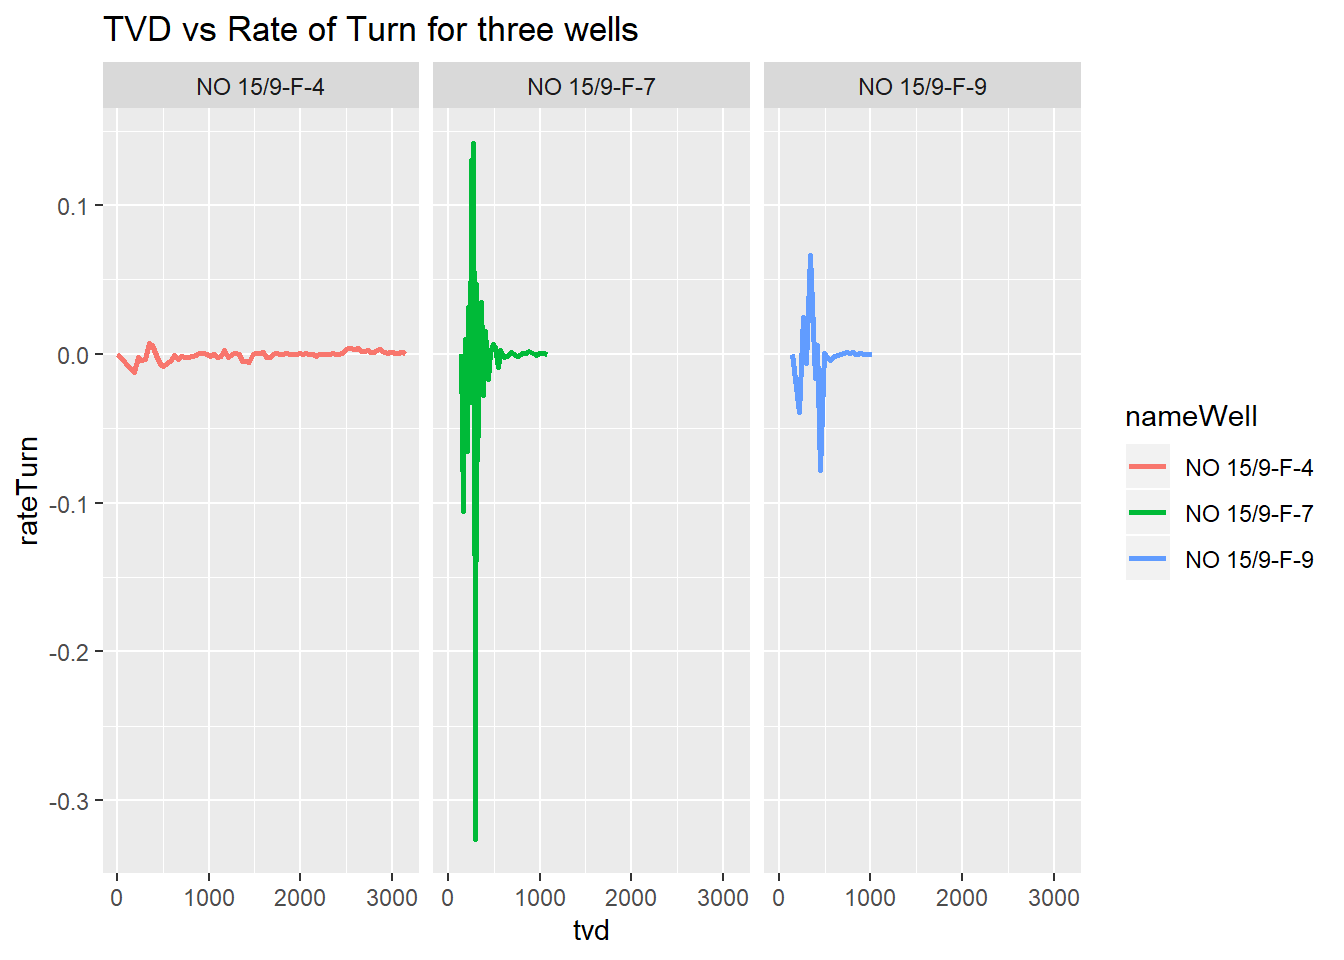
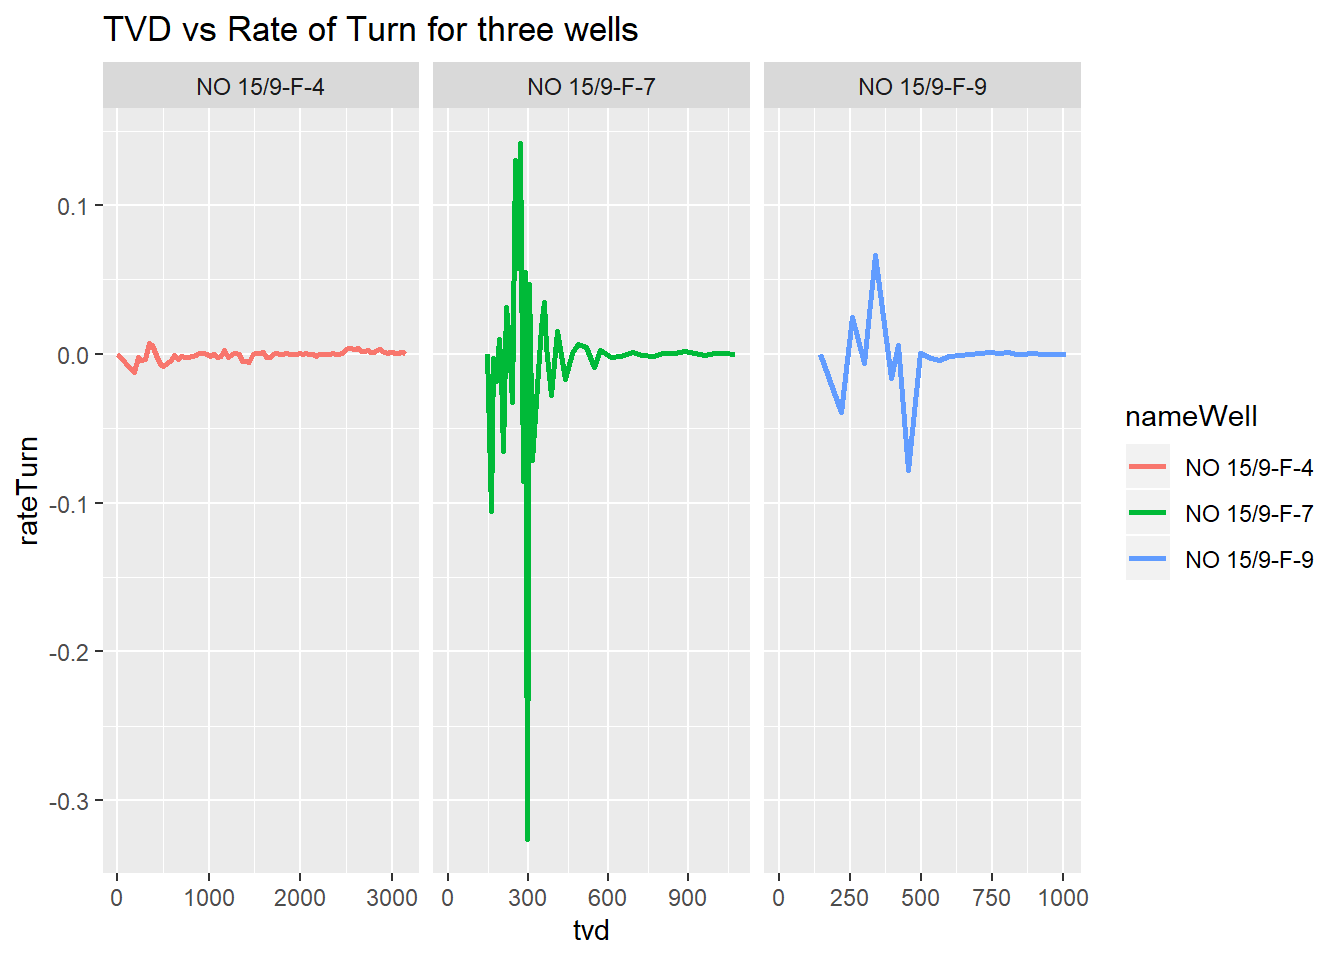
add more explanations to witsml conversion.

diff --git a/content/publications/2019-01-27-exploring-drilling-data-with-witsml-and-r.html b/content/publications/2019-01-27-exploring-drilling-data-with-witsml-and-r.html
@@ -547,8 +547,8 @@ unique(xml_name(xml_children(xml_find_all(dat, &quot;//trajectoryStation&quot;))
 <p>They are different because int he first case we are asking for the first node (<code>xml_find_first</code>) while in the second case we are asking for all the nodes (xml_find_all). This is normal, the reason of existence of hierarchical structures that doesn’t waste space in variables that are not currently used.</p>
 </blockquote>
 </div>
-<div id="attrubutes-of-trajectorystation" class="section level3">
-<h3>Attrubutes of <code>trajectoryStation</code></h3>
+<div id="attributes-of-trajectorystation" class="section level3">
+<h3>Attributes of <code>trajectoryStation</code></h3>
 <pre class="r"><code># get the attributes for trajectoryStation
 xml_attrs(x = trajectoryStation)
 #&gt;                 uid 
@@ -1326,7 +1326,7 @@ all_wells
 <div id="simplify-the-data-structure-by-nesting-the-two-wells" class="section level2">
 <h2>Simplify the data structure by nesting the two wells</h2>
 <p>With the two wells put together we should be almost ready. But we don’t want to show all the measurements; we want just to focus on the wells. So far, we have two wells with 67 rows but what about later when we have ten or a hundred. Then, it would consume lot of memory and screen to see through all those records.</p>
-<p>What we want is to show only the wells and start performing operations directly on them. We do this by using the function <code>nest()</code>.</p>
+<p>What we want is to show only the wells and start performing operations directly on them. We do this by using the <code>tidyr</code> function <code>nest()</code>.</p>
 <pre class="r"><code># nest the two well so they show as one row each
 wells_nested &lt;-
     all_wells %&gt;% 
@@ -1340,7 +1340,8 @@ wells_nested &lt;-
 </div>
 <div id="add-new-wells" class="section level2">
 <h2>Add new wells</h2>
-<p>We will add one more well: <em>Norway-Statoil-NO 15_$47$_9-F-4</em>. This well has 87 measurement points for its trajectory.</p>
+<p>We will add one more well: <em>Norway-Statoil-NO 15_$47$_9-F-4</em>. This well has 87 measurement points for its trajectory, which is the same as saying that the well has 87 <code>trajectoryStation</code> items.</p>
+<p>This time we use only one function <code>convert_witsml_to_df()</code>, one that resides in the script <code>witsml-trajectory.R</code>. This function performs all the data extraction and conversion that we saw at the beginning.</p>
 <pre class="r"><code># convert a WITSML trajectory to dataframe
 well_9f4  &lt;- traj_files[1] 
 well_9f4_df &lt;- convert_witsml_to_df(well_9f4)
@@ -1372,6 +1373,8 @@ well_9f4_df
 </div>
 <div id="nest-the-new-well" class="section level2">
 <h2>Nest the new well</h2>
+<p>So, we have 87 trajectory measurements for the well. Again, we don’t want to see all of them but just the well. So, we nest the structure. What we will see from now on is one row representing the well with its <code>uid</code>.</p>
+<p>Later, if you need to undo the nesting operation, you just use the function <code>unnest()</code>.</p>
 <pre class="r"><code># nesting the new well
 nested_9f4 &lt;-
     well_9f4_df %&gt;% 
@@ -1381,6 +1384,7 @@ nested_9f4 &lt;-
 #&gt;   uid     data              
 #&gt;   &lt;chr&gt;   &lt;list&gt;            
 #&gt; 1 5VIRG33 &lt;tibble [87 x 42]&gt;</code></pre>
+<p>The new well should be able now to join the other two wells nested structure. It should be a straight operation with the function <code>rbind()</code>. Since all of them are just one row, at the end of the binding we should have now three rows. The trajectory measurements are living as a list component in the column <code>data</code>.</p>
 <pre class="r"><code># bind the existing wells with the new one
 wells_nested_3 &lt;- rbind(wells_nested, nested_9f4)
 wells_nested_3
@@ -1393,11 +1397,19 @@ wells_nested_3
 </div>
 <div id="transforming-the-drilling-data" class="section level2">
 <h2>Transforming the drilling data</h2>
+<p>The next step is performing some operations with the data in the nested structures. First, we want to do the type conversion of few of the variables. We should convert the character types to the double type for the variables:</p>
+<pre><code>md
+tvd
+incl
+azi
+rateTurn
+rateBuild</code></pre>
+<p>After they are converted to numeric variables, we will be able to plot them and start making discoveries.</p>
 <pre class="r"><code>wells_kvars &lt;- 
-    wells_nested_3 %&gt;% 
-    unnest(data) %&gt;% 
+    wells_nested_3 %&gt;%   # this is the nested structure
+    unnest(data) %&gt;%     # unnest and select the variables
     select(nameWell, md, tvd, incl, azi, rateTurn, rateBuild) %&gt;% 
-    mutate(md = as.double(md), tvd = as.double(tvd), 
+    mutate(md = as.double(md), tvd = as.double(tvd),    # convert to double
            incl = as.double(incl), azi = as.double(azi),
            rateTurn = as.double(rateTurn), rateBuild = as.double(rateBuild)) %&gt;% 
     print()
@@ -1418,12 +1430,17 @@ wells_nested_3
 </div>
 <div id="plotting-drilling-data" class="section level2">
 <h2>Plotting drilling data</h2>
+<p>With the variables now converted to double, we start plotting them. The first plot will be MD vs TVD to find out how deviated is the well.</p>
 <pre class="r"><code># MD vs TVD for three wells
 library(ggplot2)
 ggplot(wells_kvars, aes(x = md, y = tvd, color = nameWell)) +
     geom_line(size=1) +
     labs(title = &quot;MD vs TVD for three wells&quot;)</code></pre>
 <p><img src="/publications/2019-01-27-exploring-drilling-data-with-witsml-and-r_files/figure-html/unnamed-chunk-59-1.png" width="672" style="display: block; margin: auto;" /></p>
+</div>
+<div id="facet-plot-of-md-vs-tvd" class="section level2">
+<h2>Facet plot of MD vs TVD</h2>
+<p>Here is another way of visualizing the plot above. We use facets to get rid of that overlapping in the former plot.</p>
 <pre class="r"><code># plot facets of the three wells
 # MD vs TVD for three wells
 ggplot(wells_kvars, aes(x = md, y = tvd, color = nameWell)) +
@@ -1431,22 +1448,25 @@ ggplot(wells_kvars, aes(x = md, y = tvd, color = nameWell)) +
     facet_grid(. ~ nameWell) +
     labs(title = &quot;MD vs TVD for three wells&quot;)</code></pre>
 <p><img src="/publications/2019-01-27-exploring-drilling-data-with-witsml-and-r_files/figure-html/unnamed-chunk-60-1.png" width="672" style="display: block; margin: auto;" /></p>
+<p>Next, it is the turn of inclination vs azimut.</p>
 <pre class="r"><code># Inclination vs Azimuth for three wells
 ggplot(wells_kvars, aes(x = incl, y = azi, color = nameWell)) +
     geom_line(size=1) +
     facet_grid(. ~ nameWell) +
     labs(title = &quot;Inclination vs Azimuth for three wells&quot;)</code></pre>
 <p><img src="/publications/2019-01-27-exploring-drilling-data-with-witsml-and-r_files/figure-html/unnamed-chunk-61-1.png" width="672" style="display: block; margin: auto;" /></p>
+<p>We notice that the x-axis remains the same for al of the plots. We can set it free to let the x axis expand and follow the data. Just be careful in reading the data in the x-axis; they are not fixed anymore.</p>
 <pre class="r"><code># # rateTurn in radians per meter
 ggplot(wells_kvars, aes(x = tvd, y = rateTurn, color = nameWell)) +
     geom_line(size=1) +
-    facet_grid(. ~ nameWell) +
+    facet_grid(. ~ nameWell, scales=&quot;free_x&quot;) +
     labs(title = &quot;TVD vs Rate of Turn for three wells&quot;)</code></pre>
 <p><img src="/publications/2019-01-27-exploring-drilling-data-with-witsml-and-r_files/figure-html/unnamed-chunk-62-1.png" width="672" style="display: block; margin: auto;" /></p>
+<p>We do the same with the plot TVD vs Rate of Build.</p>
 <pre class="r"><code># rateBuild in radians per meter
 ggplot(wells_kvars, aes(x = tvd, y = rateBuild, color = nameWell)) +
     geom_line(size=1) +
-    facet_grid(. ~ nameWell) +
+    facet_grid(. ~ nameWell, scales = &quot;free_x&quot;) +
     labs(title = &quot;TVD vs Rate of Build for three wells&quot;)</code></pre>
 <p><img src="/publications/2019-01-27-exploring-drilling-data-with-witsml-and-r_files/figure-html/unnamed-chunk-63-1.png" width="672" style="display: block; margin: auto;" /></p>
 </div>
